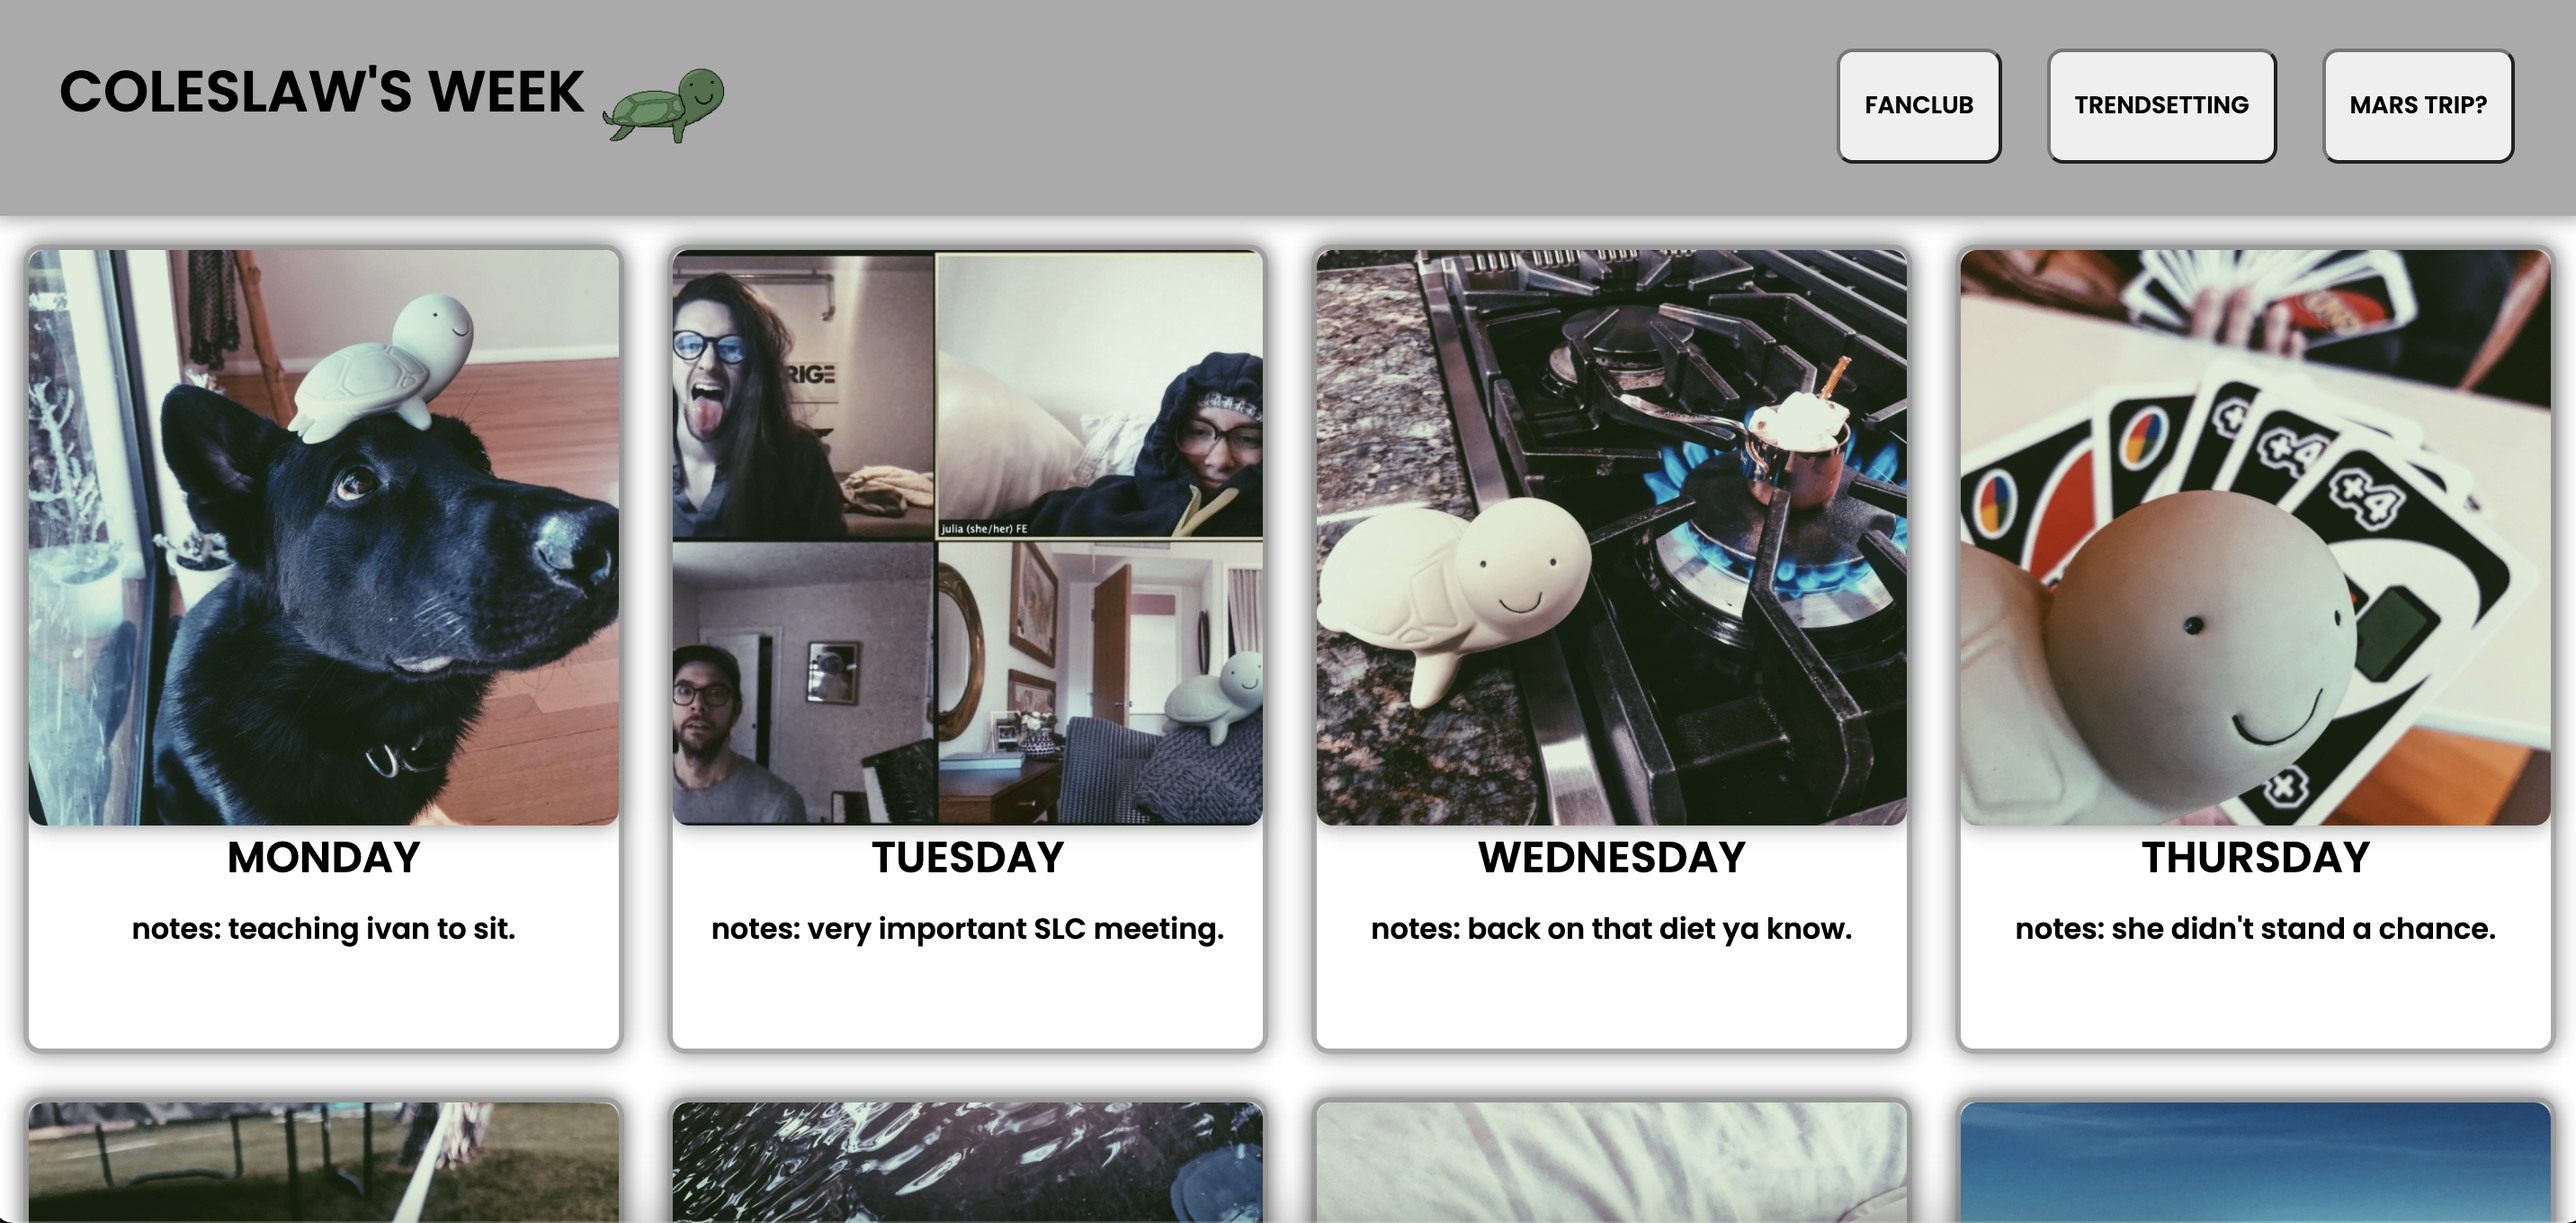
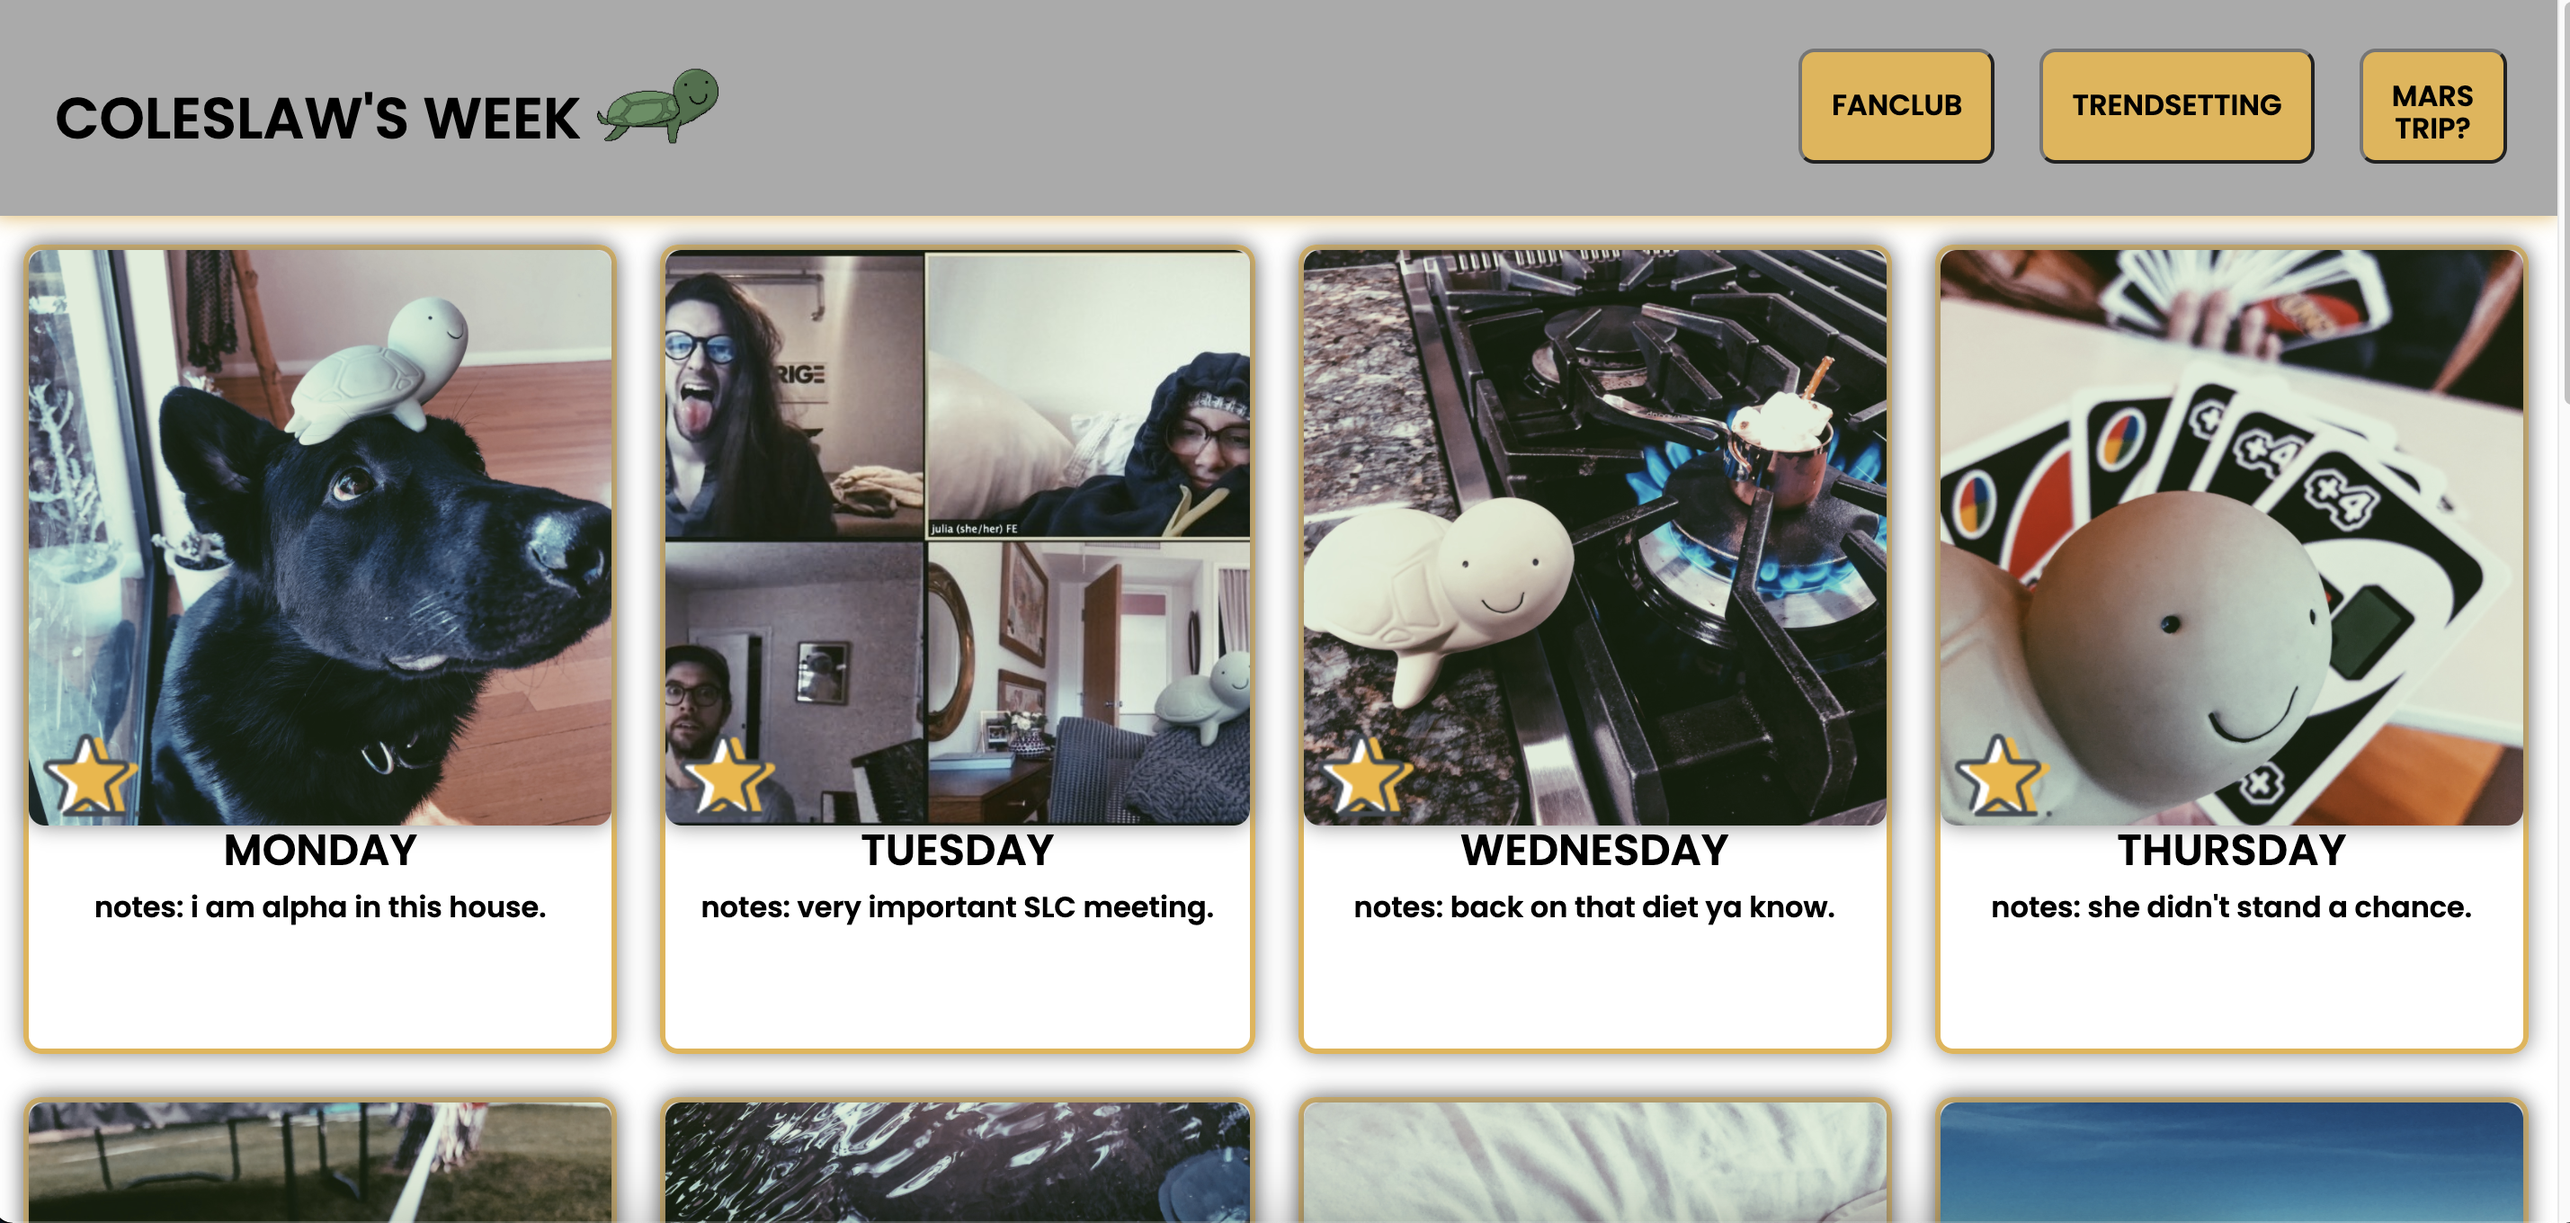
Screenshots of each screen view

diff --git a/index.html b/index.html
@@ -1,6 +1,7 @@
 <!DOCTYPE html>
 <html>
   <head>
+    <link rel="stylesheet" href="node_modules/normalize.css/normalize.css">
     <link rel="stylesheet" type="text/css" href="src/styles.css"/>
     <meta name="viewport" content="width=device-width, initial-scale=1">
     <link href="https://fonts.googleapis.com/css2?family=Poppins:wght@600&display=swap" rel="stylesheet">
@@ -17,6 +18,7 @@
         <button>FANCLUB</button>
         <button>TRENDSETTING</button>
         <button>MARS TRIP?</button>
+        <!-- <button>MARS TRIP GO FUND ME?</button> -->
       </div>
       <img class="hammy" src="data/icons8-menu-100.png"/>
     </header>
@@ -26,7 +28,7 @@
         <img class="rating" src="data/icons8-rating-64.png"/>
         <h2>MONDAY</h2>
         <p>
-          notes: teaching ivan to sit.
+          notes: i am alpha in this house.
         </p>
       </section>
       <section class="grow">

diff --git a/src/styles.css b/src/styles.css
@@ -10,7 +10,7 @@
   height: 90px;
   display: flex;
   justify-content: space-between;
-  box-shadow: 0 0 .75em #808080;
+  box-shadow: 0 0 .75em #E5B44B;
 }
 
 .title {
@@ -47,7 +47,7 @@ main {
 
 section {
   position: relative;
-  border: #aaaaaa solid;
+  border: #E5B44B solid;
   border-radius: 10px;
   box-shadow: 0 0 .75em #808080;
   display: flex;
